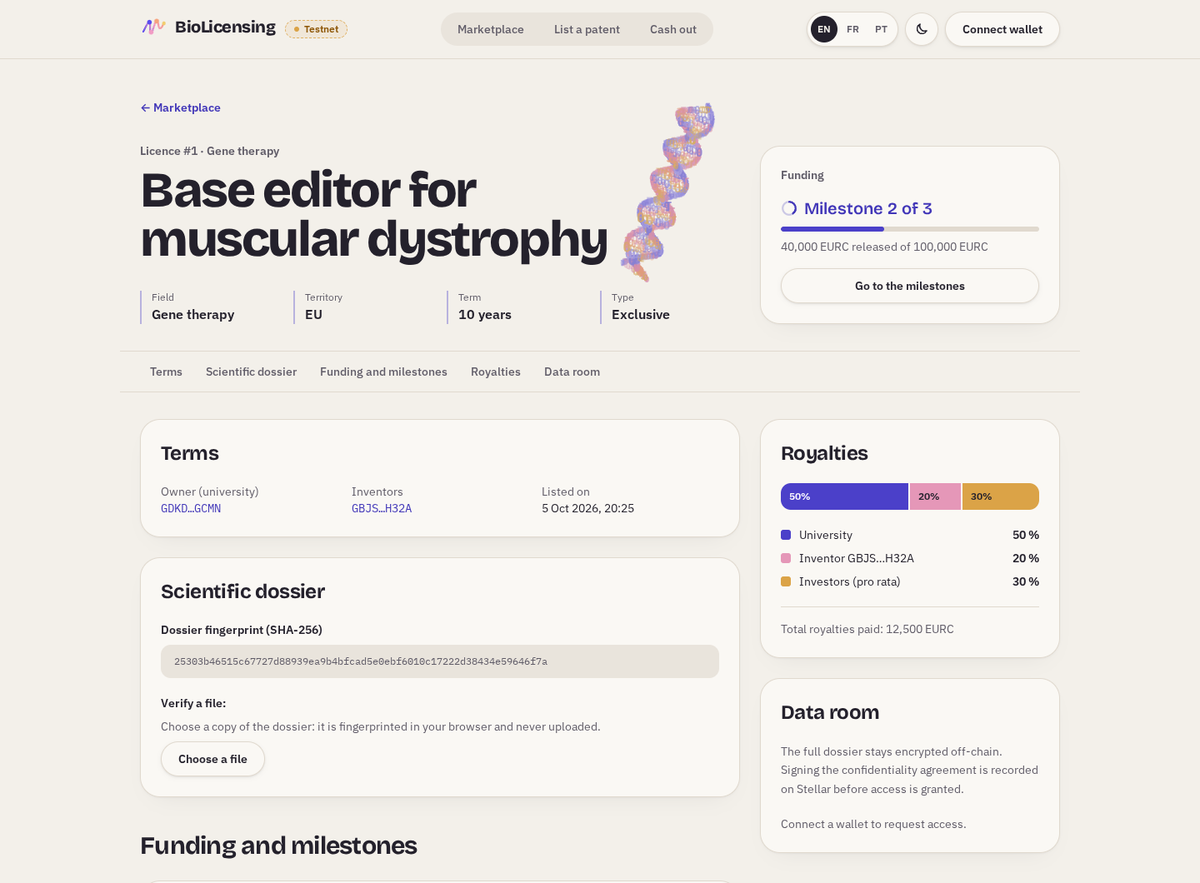
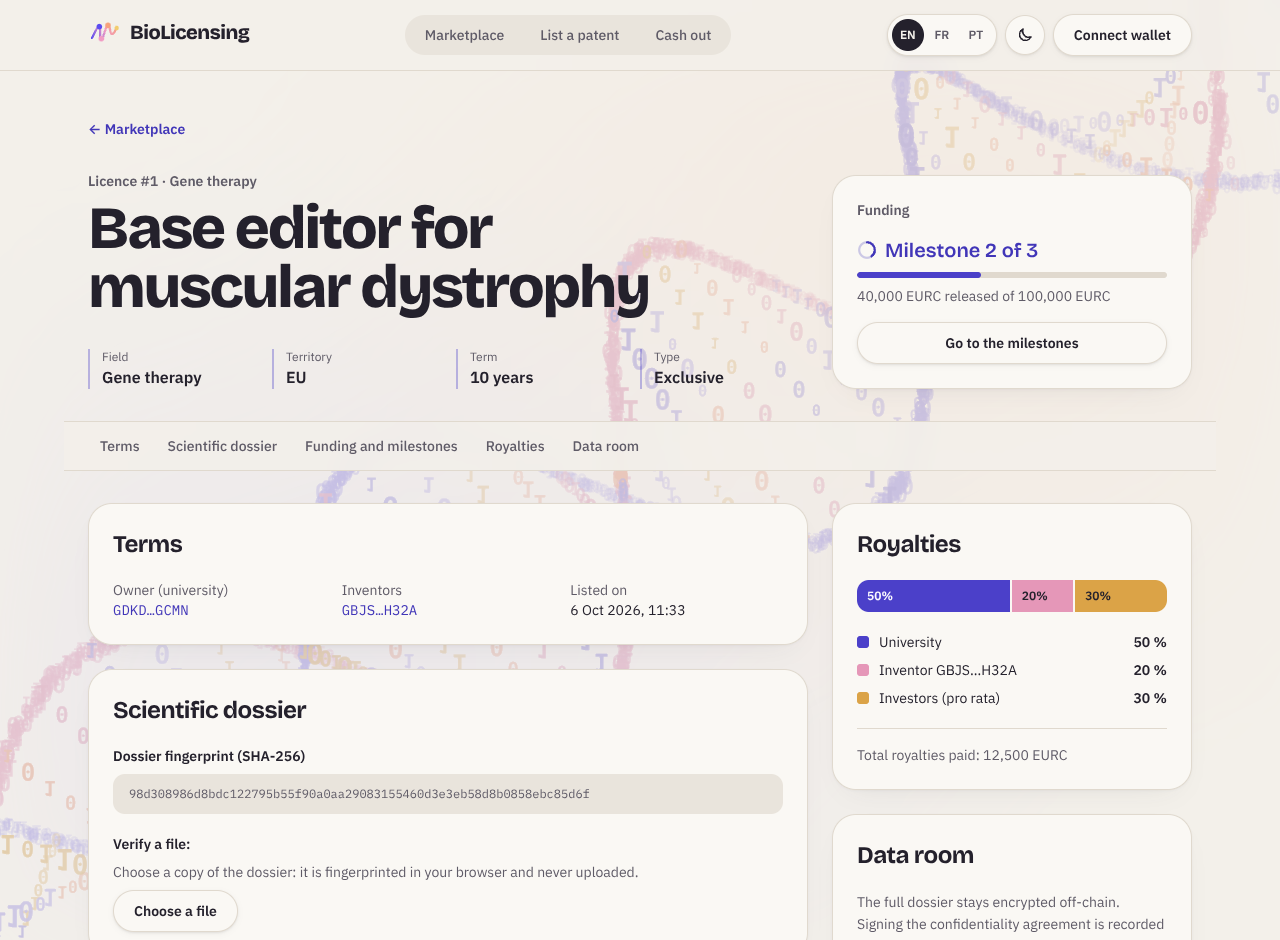
feat: remove testnet badges and refresh README screenshots
Claude-Session: https://claude.ai/code/session_018RVpHQYMDWM1MuBfirC3Cj

diff --git a/frontend/src/components/Layout.tsx b/frontend/src/components/Layout.tsx
@@ -165,17 +165,6 @@ const linkClass = (stacked: boolean) => ({ isActive }: { isActive: boolean }) =>
     isActive ? "bg-card text-ink shadow-pill ring-1 ring-inset ring-line" : "text-muted hover:text-ink"
   }`;
 
-/** Reminds every visitor that nothing here moves real money. */
-function TestnetBadge() {
-  const { t } = useTranslation();
-  return (
-    <span className="inline-flex shrink-0 items-center gap-1.5 rounded-full border border-dashed border-amber/80 bg-amber/10 px-2.5 py-0.5 text-xs font-semibold whitespace-nowrap text-amber-dark">
-      <span aria-hidden className="size-1.5 rounded-full bg-amber" />
-      {t("header.testnet")}
-    </span>
-  );
-}
-
 export function Layout() {
   const { t } = useTranslation();
   const { signer, connecting, connectWallet } = useWallet();
@@ -238,9 +227,6 @@ export function Layout() {
                 {/* Below 360px only the mark fits next to the wallet button and the menu. */}
                 <Logo wordmarkClassName="max-[359px]:hidden" />
               </NavLink>
-              <span className="hidden sm:inline-flex">
-                <TestnetBadge />
-              </span>
             </div>
             {desktop && (
               <nav aria-label={t("nav.main")} className="flex gap-1 justify-self-center rounded-full bg-subtle p-1">
@@ -283,7 +269,6 @@ export function Layout() {
               <div className="flex items-center gap-2">
                 <LanguageSwitcher />
                 <ThemeToggle />
-                <TestnetBadge />
               </div>
               {signer && <WalletArea balance={balance.data} />}
             </div>

diff --git a/frontend/src/pages/Marketplace.tsx b/frontend/src/pages/Marketplace.tsx
@@ -132,10 +132,6 @@ export function Marketplace() {
       {/* Hero */}
       <section className="relative isolate grid items-center gap-10 lg:grid-cols-[1.1fr_1fr] lg:gap-6">
         <div className="flex flex-col gap-7 py-6 sm:py-10">
-          <p className="flex items-center gap-2.5 text-sm text-muted">
-            <span aria-hidden className="size-2 shrink-0 rounded-full bg-amber ring-4 ring-amber/20" />
-            {t("marketplace.heroNote")}
-          </p>
           <BurstHeading
             as="h1"
             className="max-w-[12ch] font-display text-5xl leading-[0.95] font-extrabold tracking-[-0.04em] text-balance sm:text-6xl lg:text-[5.4rem]"
